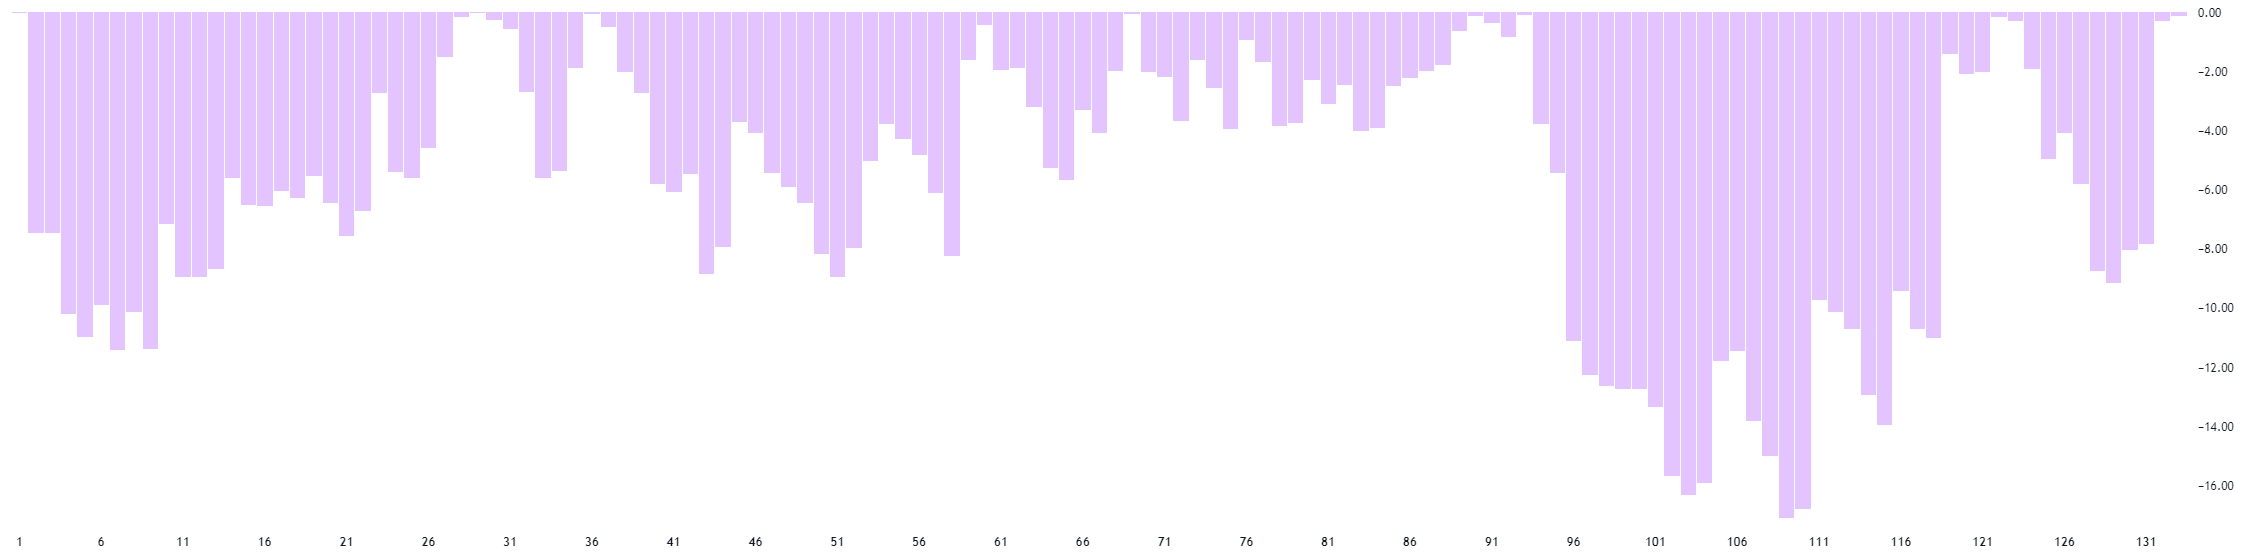
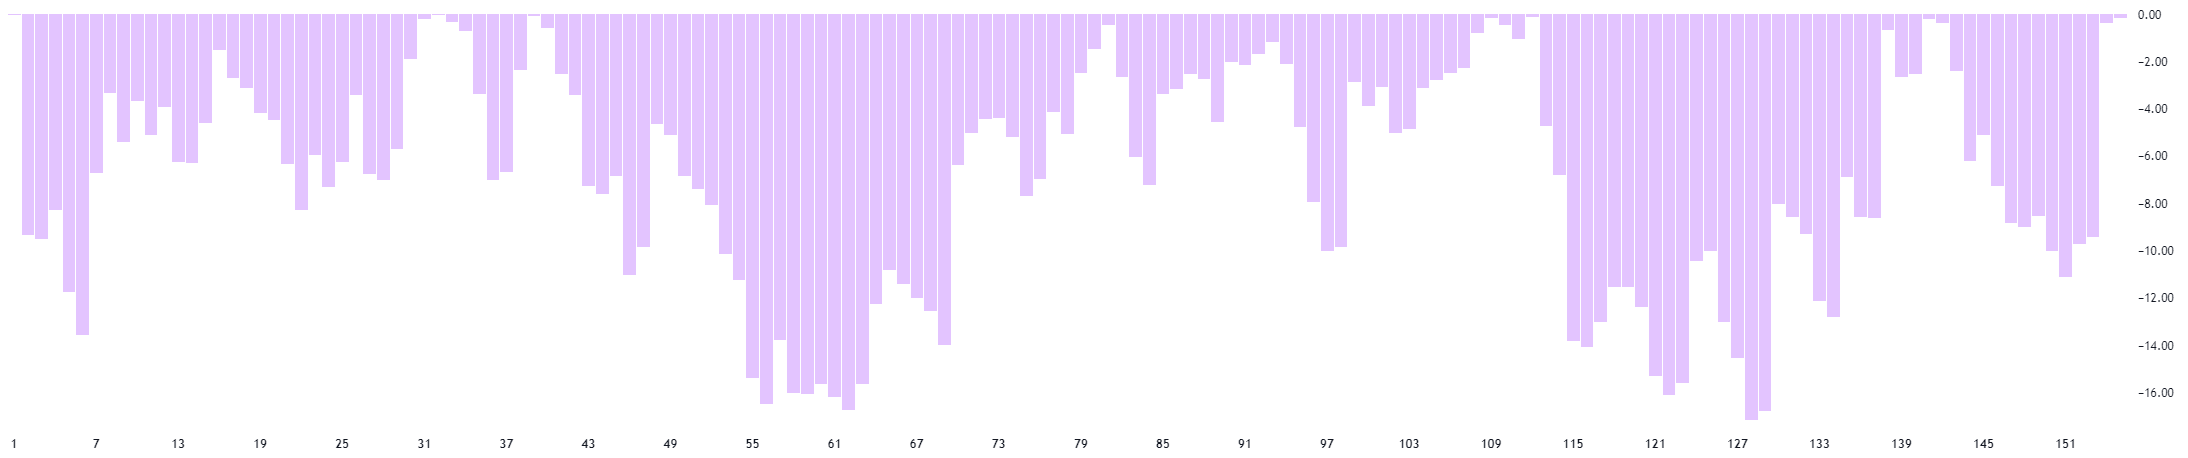
61217697: updated backtest for TurtleTrendFollow

diff --git a/strategies/trend-follow/TurtleTrendFollow/backtest/backtest.md b/strategies/trend-follow/TurtleTrendFollow/backtest/backtest.md
@@ -22,29 +22,29 @@
 - Basic settings
     - Entry length: 20
     - Exit length: 10
-    - Risk per trade: 2%
+    - Risk per trade: 2.5%
     - ATR multiplier: 2
     - ATR length: 20
 
 - Filter settings
-    - Enable filter: True
+    - Enable filter: False
     - Benchmark: SPX
 
 - Time settings
     - From date: 1.1.1990
-    - To date: 4.5.2024
+    - To date: 11.5.2024
 
 - Properties
     - Initial capital: 100 000 USD
     - Pyramiding: 0
 
 **Outputs**
-- Net profit: 126% (CAGR 3.70%)
-- Total count trades: 133 (avg 3-4 trades per year) 
-- Percentage profitability: 45.86%
-- Profit factor: 1.75
-- Ratio Avg Win / Avg Loss: 2.07
-- Max drawdown: 23.25%
+- Net profit: 221% (CAGR 6.5%)
+- Total count trades: 152 (avg 4-5 trades per year) 
+- Percentage profitability: 48%
+- Profit factor: 1.92
+- Ratio Avg Win / Avg Loss: 2.08
+- Max drawdown: 26.78%
 
 **Equity**
 ![SPX equity](resources/SPX-equity.png)
@@ -57,29 +57,29 @@
 - Basic settings
     - Entry length: 20
     - Exit length: 10
-    - Risk per trade: 2%
+    - Risk per trade: 2.5%
     - ATR multiplier: 2
     - ATR length: 20
 
 - Filter settings
-    - Enable filter: True
+    - Enable filter: False
     - Benchmark: SPX
 
 - Time settings
     - From date: 1.1.1990
-    - To date: 4.5.2024
+    - To date: 11.5.2024
 
 - Properties
     - Initial capital: 100 000 USD
     - Pyramiding: 0
 
 **Outputs**
-- Net profit: 196% (CAGR: 5.76%)
-- Total count trades: 132 (avg 3-4 trades per year) 
-- Percentage profitability: 53.03%
-- Profit factor: 1.84
-- Ratio Avg Win / Avg Loss: 1.63
-- Max drawdown: 17.07%
+- Net profit: 378% (CAGR: 11.12%)
+- Total count trades: 154 (avg 4-5 trades per year) 
+- Percentage profitability: 51.95%
+- Profit factor: 1.82
+- Ratio Avg Win / Avg Loss: 1.68
+- Max drawdown: 17.12%
 
 **Equity**
 ![NDQ equity](resources/NDQ-equity.png)
@@ -93,12 +93,12 @@
 - Basic settings
     - Entry length: 20
     - Exit length: 10
-    - Risk per trade: 2%
+    - Risk per trade: 2.5%
     - ATR multiplier: 2
     - ATR length: 20
 
 - Filter settings
-    - Enable filter: True
+    - Enable filter: False
     - Benchmark: SPX
 
 - Time settings
@@ -110,12 +110,12 @@
     - Pyramiding: 0
 
 **Outputs**
-- Net profit: 100% (CAGR: 2.94%)
-- Total count trades: 128 (avg 3-4 trades per year) 
+- Net profit: 179% (CAGR: 5.2%)
+- Total count trades: 149 (avg 3-4 trades per year) 
 - Percentage profitability: 46.88%
-- Profit factor: 1.58
+- Profit factor: 1.88
 - Ratio Avg Win / Avg Loss: 1.79
-- Max drawdown: 18%
+- Max drawdown: 21.64%
 
 **Equity**
 ![DJI equity](resources/DJI-equity.png)
